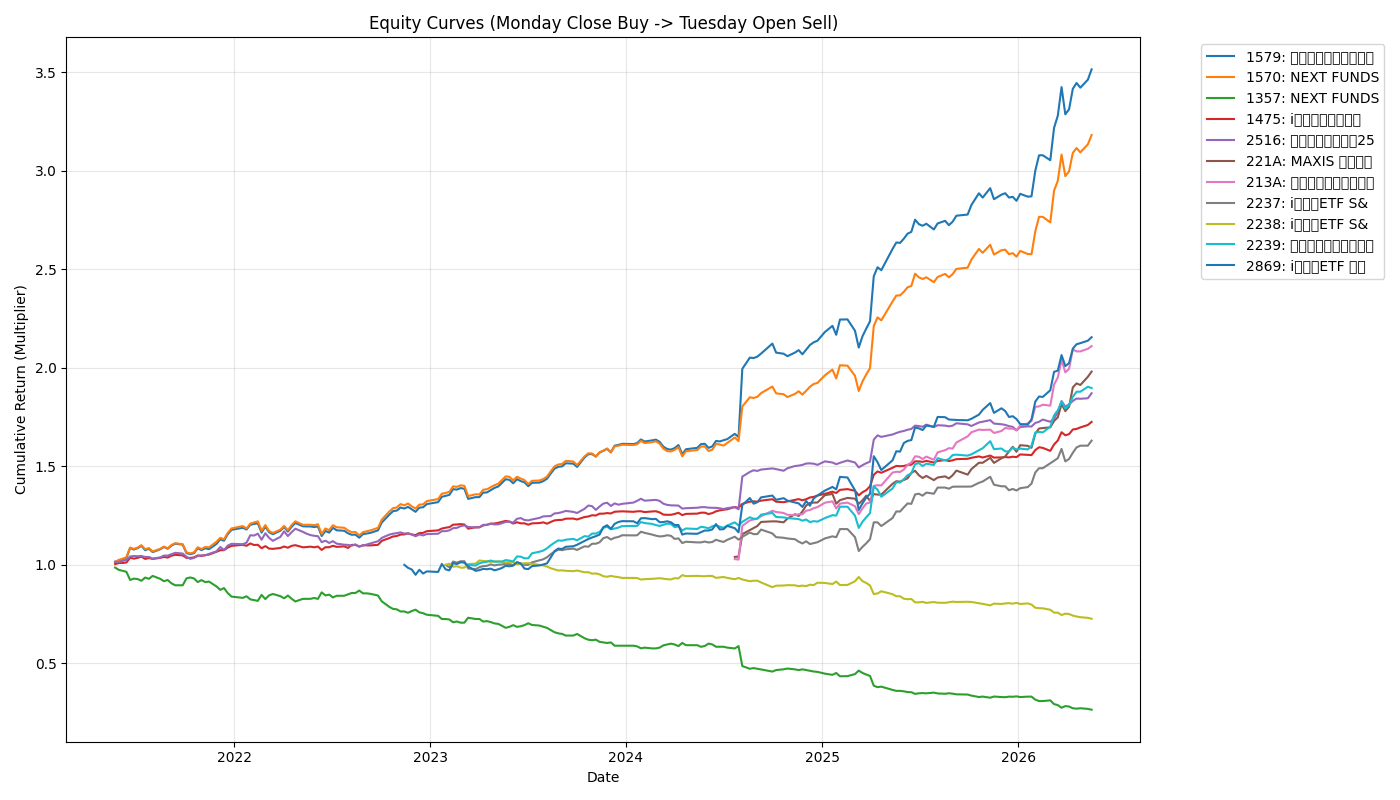
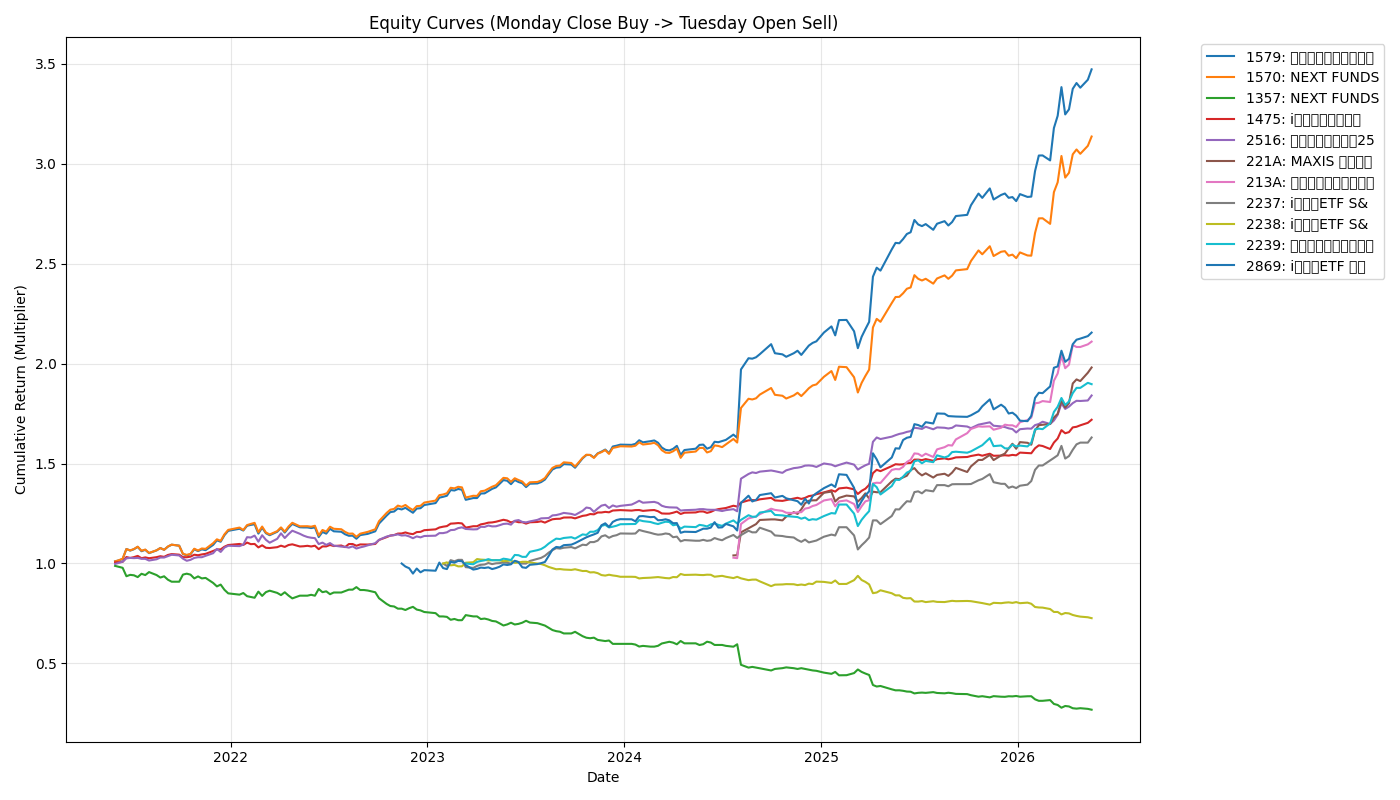
Add monthly bear backtest script
Added backtest_monthly_bear.py to implement a strategy buying a Bear ETF on the last Monday of the month and a Bull ETF on normal Mondays, selling on Tuesday open. Calculates key metrics and generates an equity curve plot.

diff --git a/backtest_monthly_bear.py b/backtest_monthly_bear.py
@@ -1,0 +1,142 @@
+import yfinance as yf
+import pandas as pd
+import numpy as np
+import matplotlib.pyplot as plt
+
+def is_last_monday(date_obj):
+    # If the date + 7 days is in a different month, it is the last occurrence of that weekday in the month
+    next_week = date_obj + pd.Timedelta(days=7)
+    return date_obj.month != next_week.month
+
+def calculate_mdd(equity_curve):
+    rolling_max = equity_curve.cummax()
+    drawdown = (equity_curve - rolling_max) / rolling_max
+    return drawdown.min()
+
+def main():
+    tickers = ["1579.T", "1357.T"]
+
+    # Download data from 2024-12-01 to ensure we have data around 2025-01-01
+    print("Downloading historical data...")
+    data = yf.download(tickers, start="2024-12-01", group_by='ticker', auto_adjust=True)
+
+    # Process 1579 (Bull) and 1357 (Bear)
+    bull_df = data["1579.T"].copy().dropna()
+    bear_df = data["1357.T"].copy().dropna()
+
+    # Filter dates from 2025-01-01
+    bull_df = bull_df[bull_df.index >= '2025-01-01']
+    bear_df = bear_df[bear_df.index >= '2025-01-01']
+
+    # Get common dates to align the calendars
+    common_dates = sorted(list(set(bull_df.index) | set(bear_df.index)))
+    market_dates = pd.DatetimeIndex(common_dates)
+
+    trades = []
+
+    for i, current_date in enumerate(market_dates):
+        # We only trade on Mondays
+        if current_date.dayofweek != 0:
+            continue
+
+        # Check if tomorrow is a market day (Tuesday)
+        if i + 1 >= len(market_dates):
+            # No next day in the dataset, skip
+            continue
+
+        next_date = market_dates[i+1]
+
+        # If the next market day is not Tuesday (e.g. Tuesday is a holiday), skip the trade
+        if next_date.dayofweek != 1:
+            continue
+
+        # Determine if it's the last Monday
+        last_mon = is_last_monday(current_date)
+
+        # Determine ticker and direction
+        if last_mon:
+            ticker = "1357.T"
+            df = bear_df
+            trade_type = "Bear (1357)"
+        else:
+            ticker = "1579.T"
+            df = bull_df
+            trade_type = "Bull (1579)"
+
+        # Verify we have data for both days for the selected ticker
+        if current_date not in df.index or next_date not in df.index:
+            continue
+
+        entry_price = df.loc[current_date, 'Close']
+        exit_price = df.loc[next_date, 'Open']
+
+        # Some yf data can be single-value or series depending on exact download shape
+        if isinstance(entry_price, pd.Series): entry_price = entry_price.iloc[0]
+        if isinstance(exit_price, pd.Series): exit_price = exit_price.iloc[0]
+
+        ret = (exit_price - entry_price) / entry_price
+
+        trades.append({
+            'Entry_Date': current_date,
+            'Exit_Date': next_date,
+            'Type': trade_type,
+            'Return': ret
+        })
+
+    trades_df = pd.DataFrame(trades)
+
+    if trades_df.empty:
+        print("No trades executed.")
+        return
+
+    # Calculate performance metrics
+    trades_df['Equity'] = (1 + trades_df['Return']).cumprod()
+
+    total_trades = len(trades_df)
+    wins = trades_df[trades_df['Return'] > 0]
+    losses = trades_df[trades_df['Return'] <= 0]
+
+    win_rate = len(wins) / total_trades if total_trades > 0 else 0
+    gross_profit = wins['Return'].sum()
+    gross_loss = abs(losses['Return'].sum())
+    profit_factor = gross_profit / gross_loss if gross_loss > 0 else float('inf')
+
+    total_return = trades_df['Equity'].iloc[-1] - 1
+    mdd = calculate_mdd(trades_df['Equity'])
+
+    # Text Output
+    print("\n--- Backtest Results (2025-01-01 to Present) ---")
+    print(f"Total Trades: {total_trades}")
+    print(f"Win Rate: {win_rate * 100:.2f}%")
+    print(f"Total Return (Cumulative): {total_return * 100:.2f}%")
+    print(f"Profit Factor: {profit_factor:.2f}")
+    print(f"Max Drawdown: {mdd * 100:.2f}%")
+    print("--------------------------------------------------\n")
+
+    # Plotting
+    plt.figure(figsize=(12, 6))
+
+    # Reindex to Entry Date for plotting
+    trades_df.set_index('Entry_Date', inplace=True)
+
+    plt.plot(trades_df.index, trades_df['Equity'], label='Total Equity Curve', color='blue', linewidth=2)
+
+    # Mark Bull and Bear trades
+    bull_trades = trades_df[trades_df['Type'] == "Bull (1579)"]
+    bear_trades = trades_df[trades_df['Type'] == "Bear (1357)"]
+
+    plt.scatter(bull_trades.index, bull_trades['Equity'], color='green', marker='^', label='Bull Trade (1579)')
+    plt.scatter(bear_trades.index, bear_trades['Equity'], color='red', marker='v', label='Bear Trade (1357)')
+
+    plt.title('Equity Curve: Bull (Normal Mon) / Bear (Last Mon)')
+    plt.xlabel('Date')
+    plt.ylabel('Cumulative Return (Multiplier)')
+    plt.legend()
+    plt.grid(True, alpha=0.3)
+    plt.tight_layout()
+
+    plt.savefig('monthly_bear_equity.png')
+    print("Saved plot to monthly_bear_equity.png")
+
+if __name__ == "__main__":
+    main()

diff --git a/test_script.py b/test_script.py
@@ -1,0 +1,2 @@
+import yfinance as yf
+print("yfinance installed")

diff --git a/report.md b/report.md
@@ -12,17 +12,17 @@ Analyze the performance of the "Buy at Monday Close, Sell at Tuesday Open" strat
 
 | ETF Code   | ETF Name                        |   Total Trades |   Win Rate (%) |   Profit Factor |   Total Return (%) |   Max Drawdown (%) |
 |:-----------|:--------------------------------|---------------:|---------------:|----------------:|-------------------:|-------------------:|
-| 1579       | 日経平均レバレッジ・インデックス連動型上場投資信託       |            217 |          65.90 |            2.60 |             251.50 |              -6.37 |
-| 1570       | NEXT FUNDS 日経平均レバレッジ・連動型上場投信    |            218 |          64.68 |            2.44 |             218.15 |              -6.50 |
+| 1579       | 日経平均レバレッジ・インデックス連動型上場投資信託       |            216 |          65.74 |            2.58 |             247.25 |              -6.37 |
+| 1570       | NEXT FUNDS 日経平均レバレッジ・連動型上場投信    |            217 |          64.52 |            2.42 |             213.64 |              -6.50 |
 | 2869       | iフリーETF ナスダック100レバレッジ           |            151 |          58.94 |            2.09 |             115.54 |             -11.60 |
 | 213A       | 上場インデックスファンド日経半導体株              |             74 |          68.92 |            5.55 |             111.02 |              -4.88 |
 | 221A       | MAXIS 日経半導体株上場投信                |             74 |          71.62 |            4.21 |              98.08 |              -3.69 |
 | 2239       | 上場インデックスファンド米国株式（S&P500）レバレッジ2倍 |            136 |          58.09 |            2.67 |              89.73 |              -8.32 |
-| 2516       | 東証グロース市場250指数連動型上場投信            |            218 |          59.63 |            2.24 |              87.09 |              -7.66 |
-| 1475       | iシェアーズ・コア TOPIX ETF             |            218 |          69.72 |            2.68 |              72.54 |              -2.97 |
-| 2237       | iフリーETF S&P500レバレッジ             |            142 |          61.27 |            2.01 |              63.05 |              -9.42 |
+| 2516       | 東証グロース市場250指数連動型上場投信            |            217 |          59.45 |            2.21 |              84.06 |              -7.66 |
+| 1475       | iシェアーズ・コア TOPIX ETF             |            217 |          70.05 |            2.66 |              71.92 |              -2.97 |
+| 2237       | iフリーETF S&P500レバレッジ             |            142 |          61.97 |            2.01 |              63.05 |              -9.42 |
 | 2238       | iフリーETF S&P500インバース             |            142 |          38.03 |            0.47 |             -27.36 |             -28.94 |
-| 1357       | NEXT FUNDS 日経平均ダブルインバース・連動型上場投信 |            218 |          31.65 |            0.40 |             -73.53 |             -73.16 |
+| 1357       | NEXT FUNDS 日経平均ダブルインバース・連動型上場投信 |            217 |          31.80 |            0.40 |             -73.16 |             -72.84 |
 
 ## Observations
 
